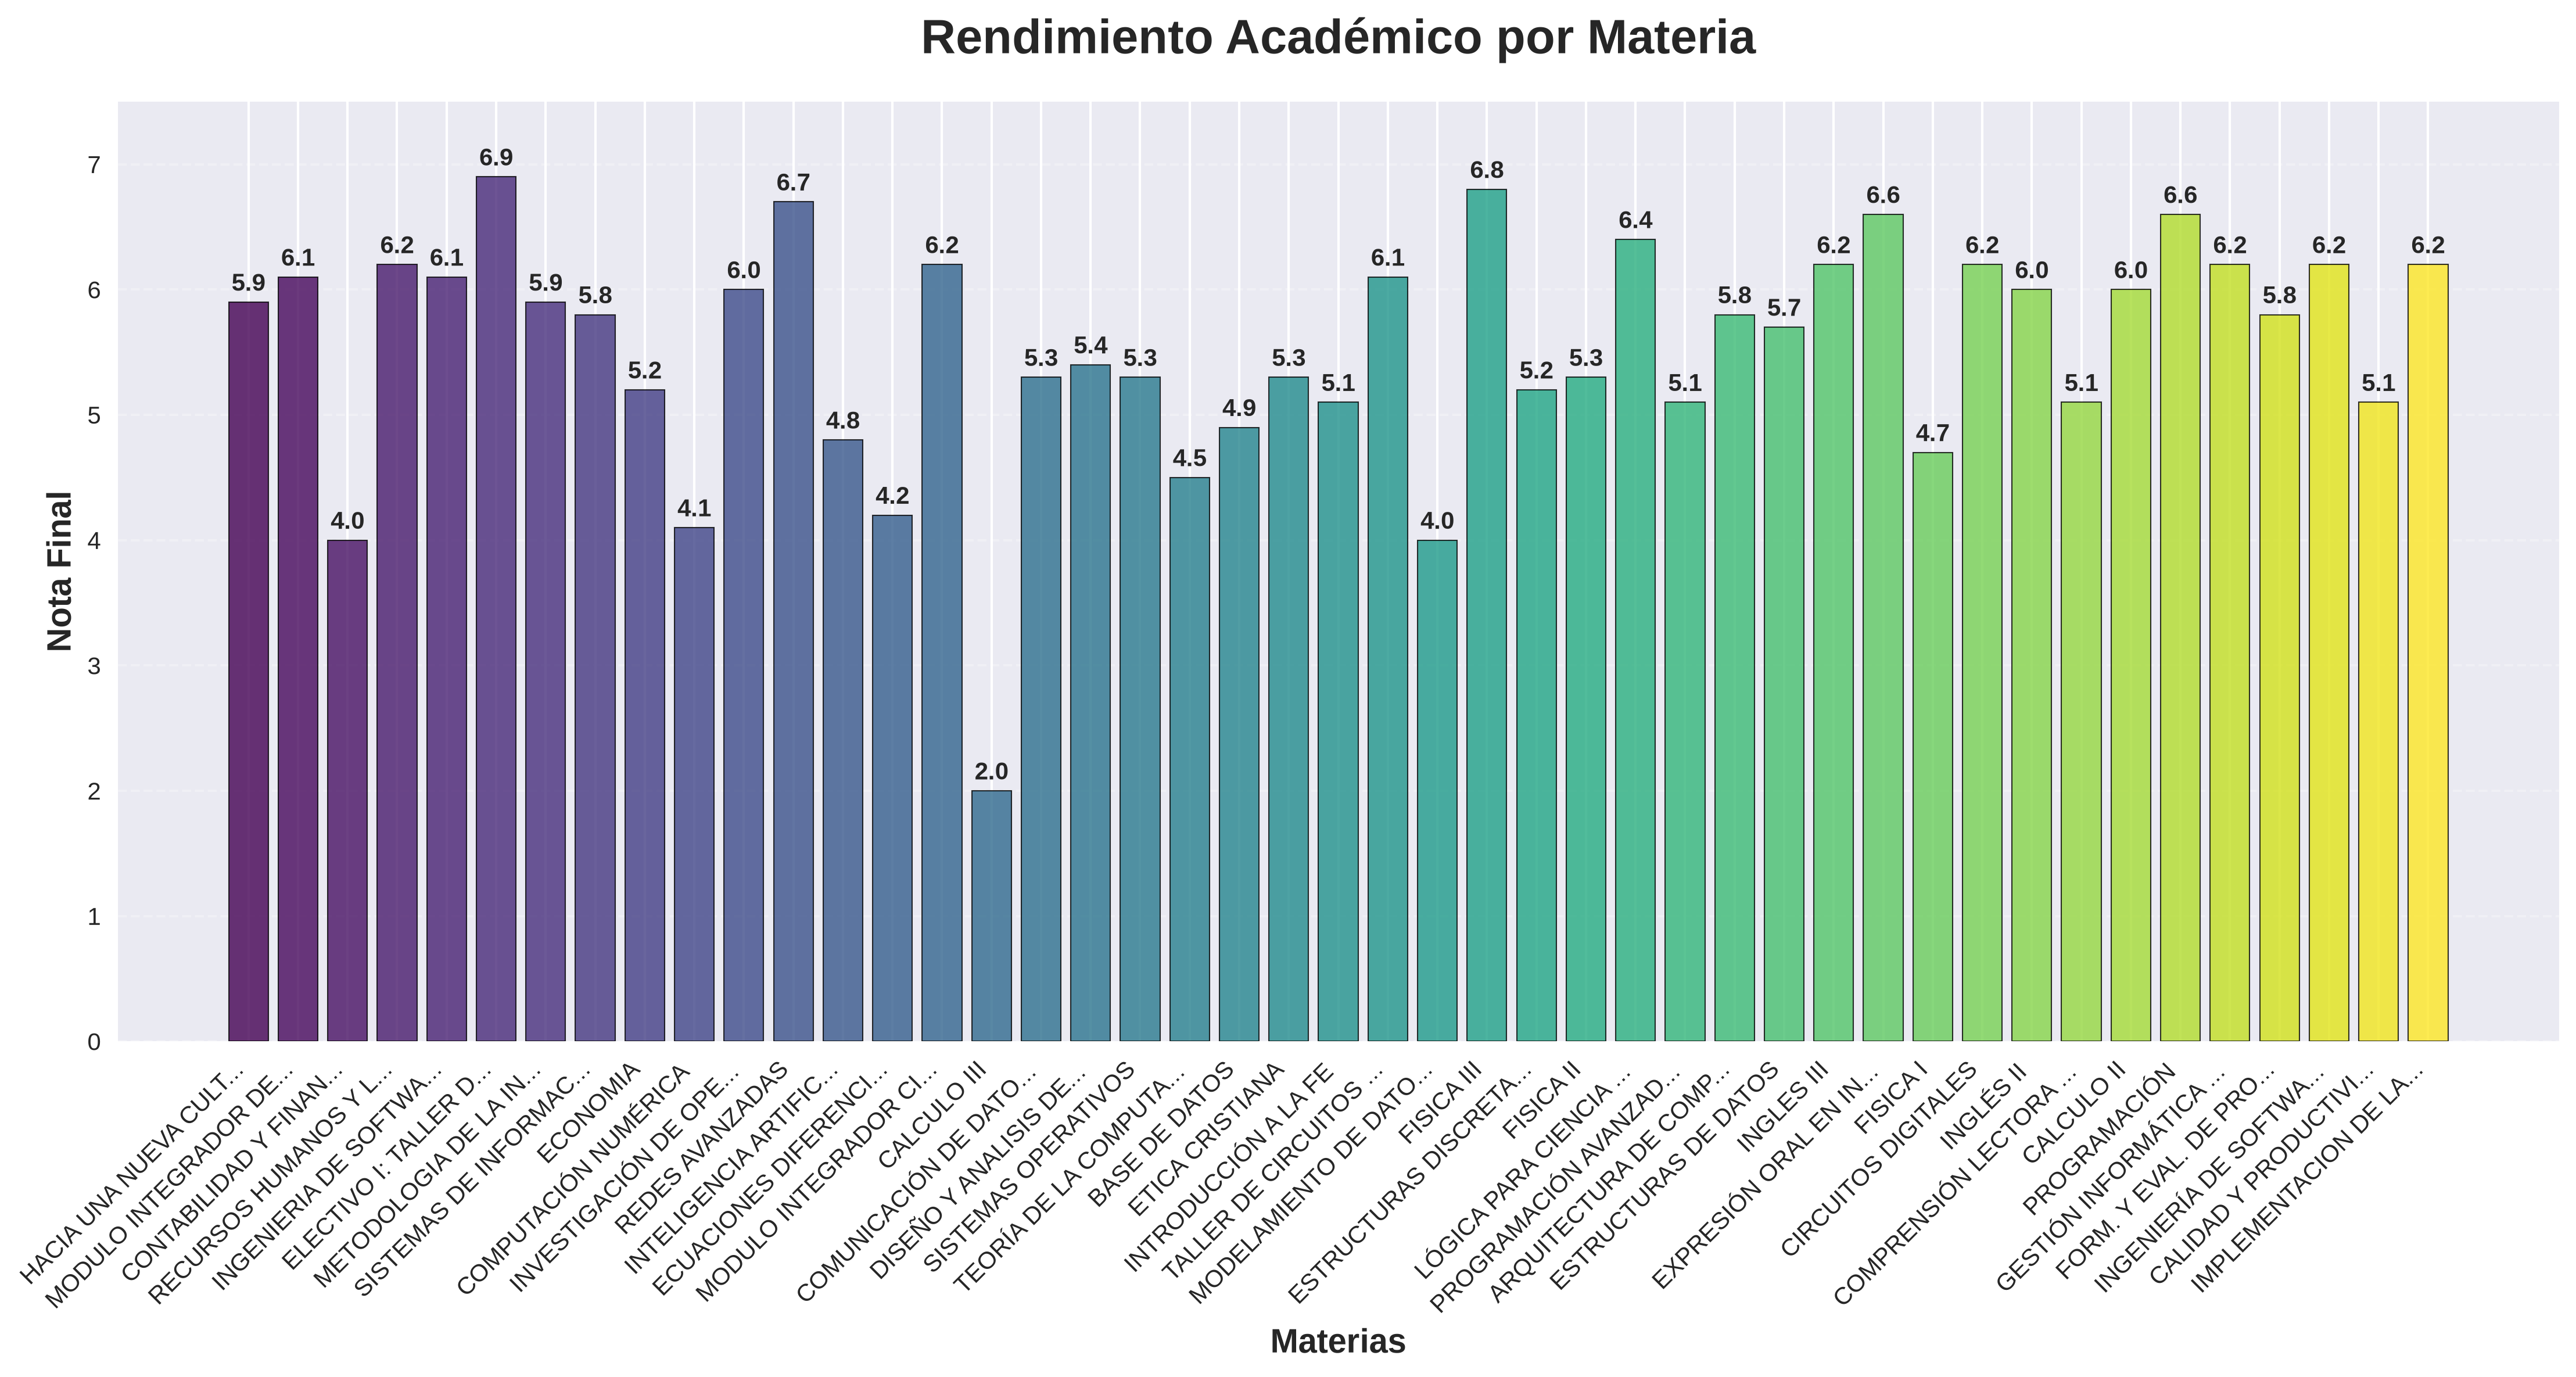
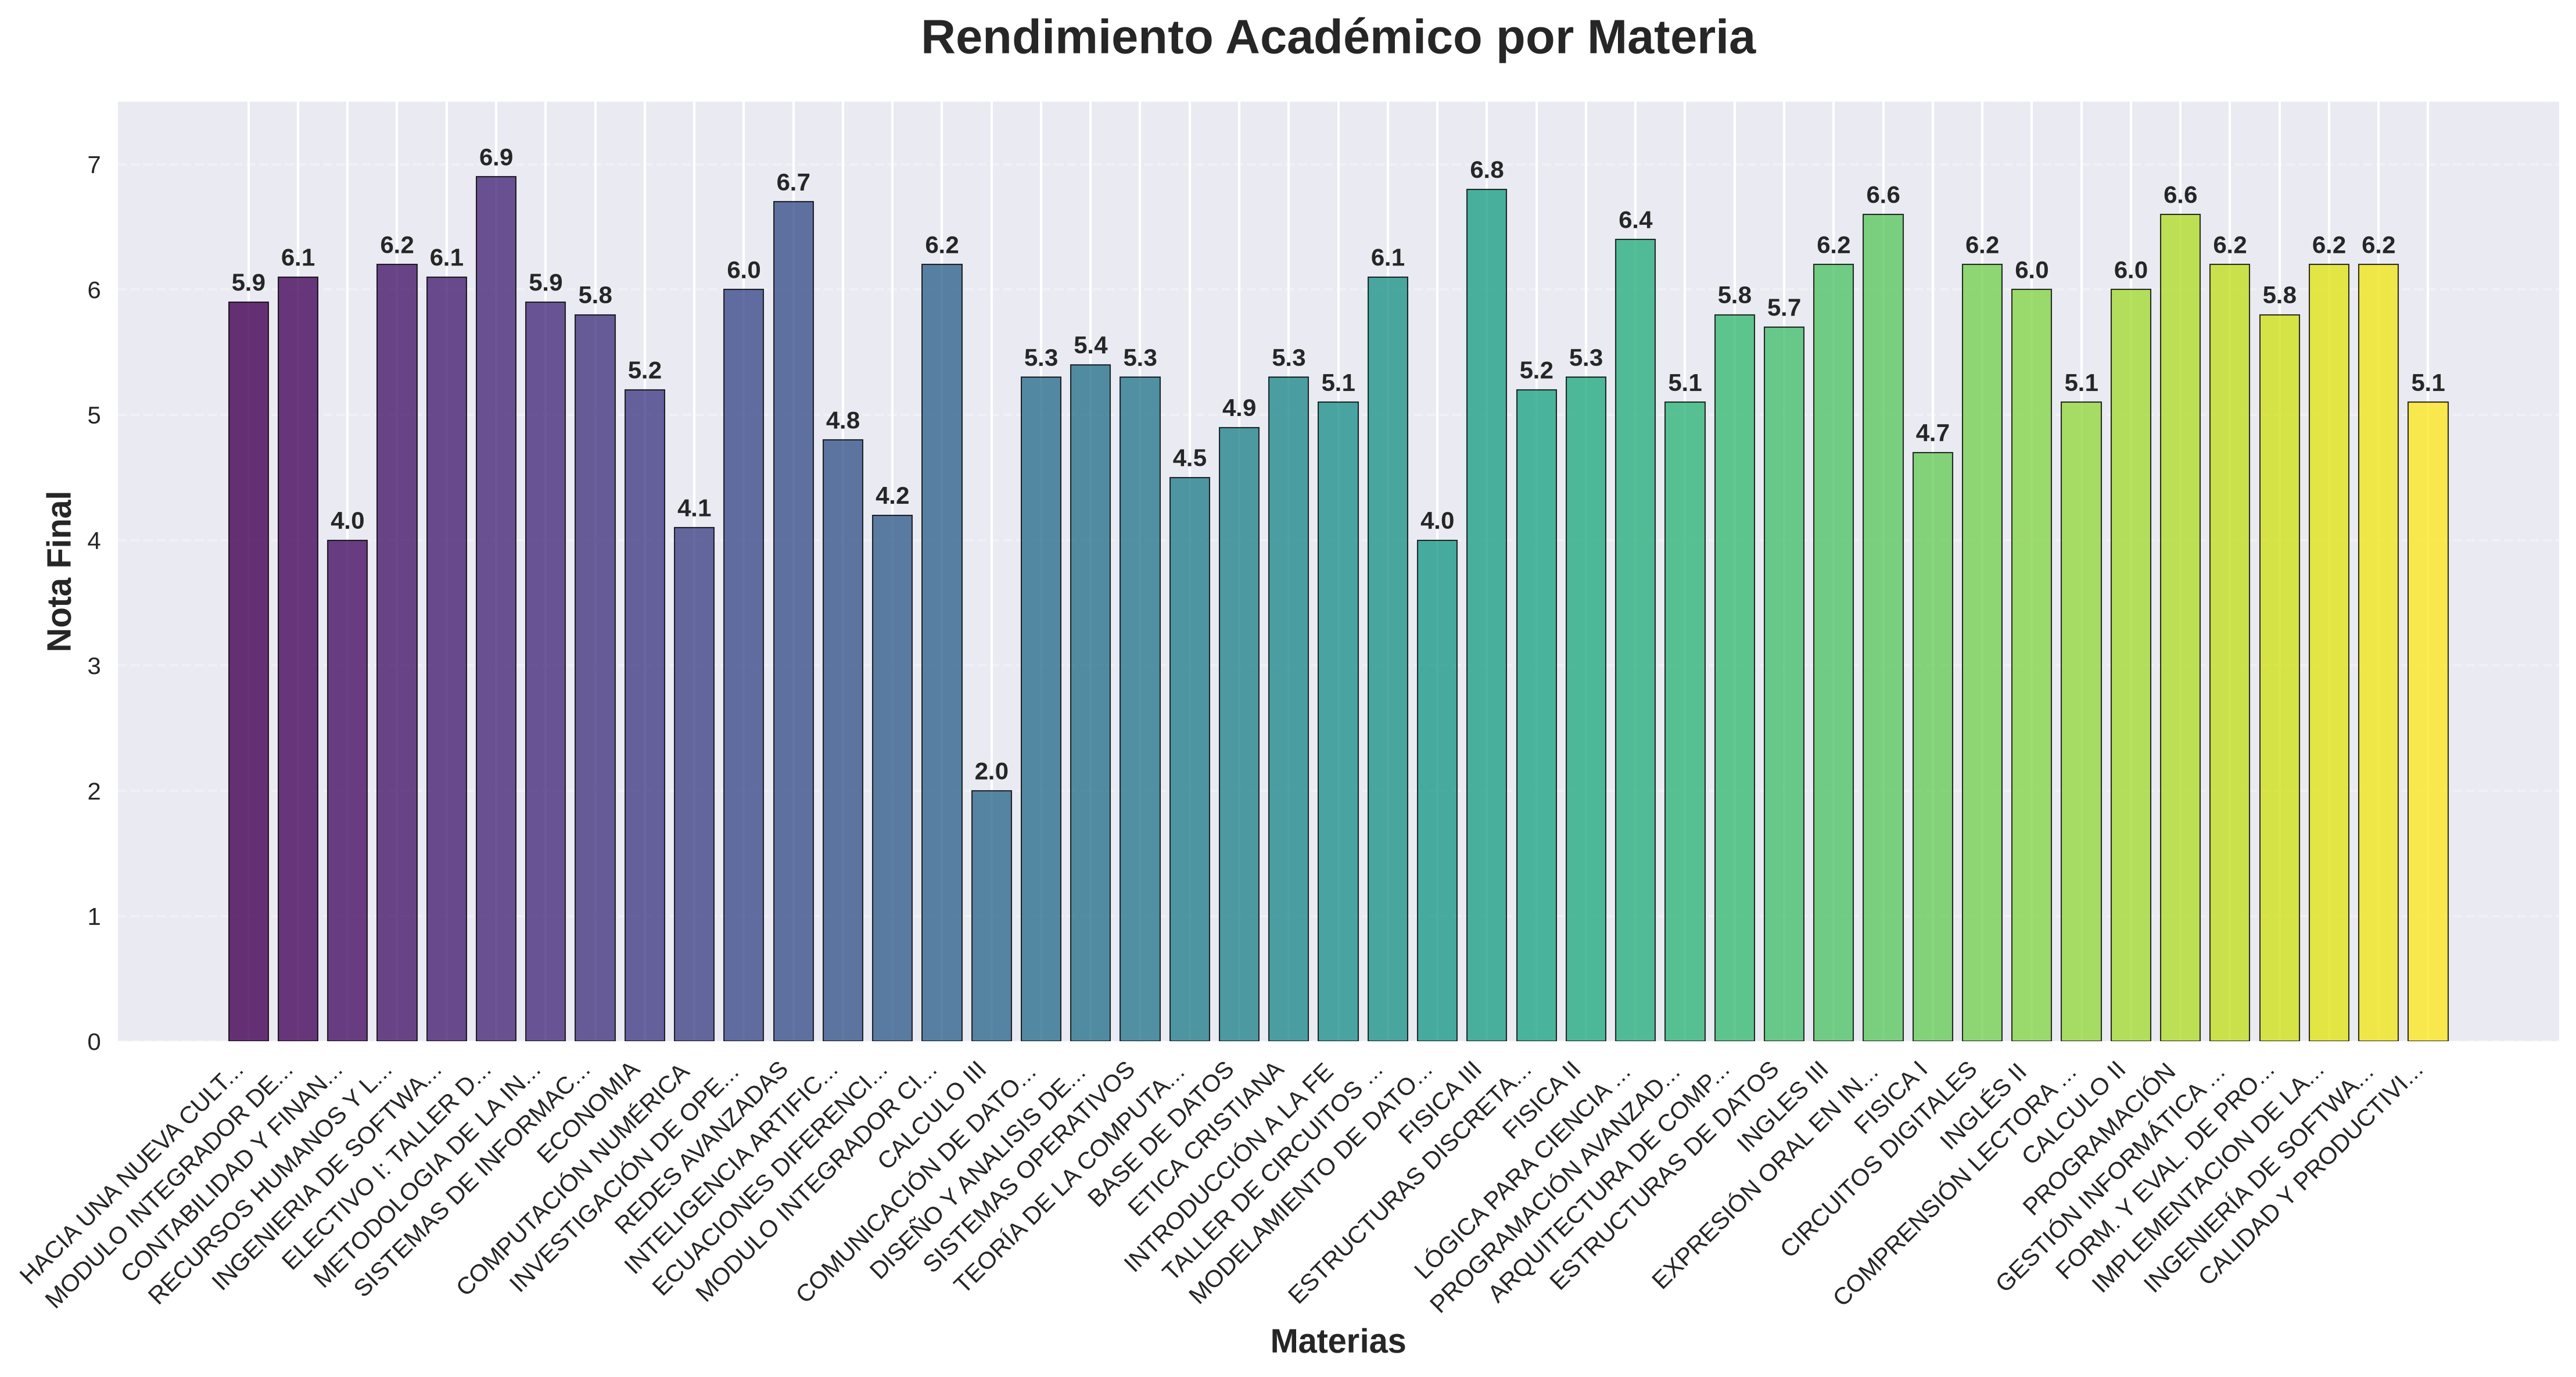
auto: actualizar notas y gráficos

Changed region(s): [[0.8092, 0.7806, 0.9337, 0.9367], [0.9026, 0.1873, 0.9648, 0.3122]]

diff --git a/dashboard/ramos_con_detalles.js b/dashboard/ramos_con_detalles.js
@@ -1,2 +1,2 @@
 /* Archivo generado automáticamente por el scraper. No editar a mano. */
-window.ramosData = {"ramos_con_detalles": [{"nombre": "HACIA UNA NUEVA CULTURA EMPRESARIAL", "nota_final": 5.9, "id_curso": "01005356", "componentes": [{"nombre": "Parcial", "porcentaje": "30%", "nota": 6.0}, {"nombre": "Parcial", "porcentaje": "30%", "nota": 7.0}, {"nombre": "Parcial", "porcentaje": "40%", "nota": 5.0}], "semestre": "Semestre 2 (Pre) 2025"}, {"nombre": "MODULO INTEGRADOR DE LICENCIATURA (PRACT", "nota_final": 6.1, "id_curso": "01003110", "componentes": [{"nombre": "Parcial", "porcentaje": "30%", "nota": 5.8}, {"nombre": "Parcial", "porcentaje": "30%", "nota": 6.4}, {"nombre": "Parcial", "porcentaje": "40%", "nota": 6.2}], "semestre": "Semestre 2 (Pre) 2025"}, {"nombre": "CONTABILIDAD Y FINANZAS", "nota_final": 4.0, "id_curso": "01003111", "componentes": [{"nombre": "Parcial", "porcentaje": "20%", "nota": 4.0}, {"nombre": "Parcial", "porcentaje": "20%", "nota": 5.9}, {"nombre": "Parcial", "porcentaje": "30%", "nota": 2.5}, {"nombre": "Parcial", "porcentaje": "30%", "nota": 4.1}], "semestre": "Semestre 2 (Pre) 2025"}, {"nombre": "RECURSOS HUMANOS Y LEGISLACIÓN", "nota_final": 6.2, "id_curso": "01003120", "componentes": [{"nombre": "Parcial", "porcentaje": "20%", "nota": 5.4}, {"nombre": "Parcial", "porcentaje": "25%", "nota": 6.5}, {"nombre": "Parcial", "porcentaje": "25%", "nota": 6.0}, {"nombre": "Parcial", "porcentaje": "30%", "nota": 6.6}], "semestre": "Semestre 2 (Pre) 2025"}, {"nombre": "INGENIERIA DE SOFTWARE I", "nota_final": 6.1, "id_curso": "01003113", "componentes": [{"nombre": "Parcial", "porcentaje": "10%", "nota": 6.3}, {"nombre": "Parcial", "porcentaje": "10%", "nota": 6.2}, {"nombre": "Parcial", "porcentaje": "20%", "nota": 7.0}, {"nombre": "Parcial", "porcentaje": "30%", "nota": 5.3}, {"nombre": "Parcial", "porcentaje": "30%", "nota": 6.2}], "semestre": "Semestre 2 (Pre) 2025"}, {"nombre": "ELECTIVO I: TALLER DE UI Y UX", "nota_final": 6.9, "id_curso": "01011131", "componentes": [{"nombre": "Parcial", "porcentaje": "20%", "nota": 7.0}, {"nombre": "Parcial", "porcentaje": "40%", "nota": 6.9}, {"nombre": "Parcial", "porcentaje": "40%", "nota": 6.8}], "semestre": "Semestre 2 (Pre) 2025"}, {"nombre": "METODOLOGIA DE LA INVESTIGACIÓN", "nota_final": 5.9, "id_curso": "01003105", "componentes": [{"nombre": "Parcial", "porcentaje": "30%", "nota": 5.5}, {"nombre": "Parcial", "porcentaje": "30%", "nota": 6.7}, {"nombre": "Parcial", "porcentaje": "40%", "nota": 5.5}], "semestre": "Semestre 1 (Pre) 2025"}, {"nombre": "SISTEMAS DE INFORMACIÓN", "nota_final": 5.8, "id_curso": "01003108", "componentes": [{"nombre": "Parcial", "porcentaje": "30%", "nota": 6.3}, {"nombre": "Parcial", "porcentaje": "30%", "nota": 7.0}, {"nombre": "Parcial", "porcentaje": "40%", "nota": 4.4}], "semestre": "Semestre 1 (Pre) 2025"}, {"nombre": "ECONOMIA", "nota_final": 5.2, "id_curso": "01003106", "componentes": [{"nombre": "Parcial", "porcentaje": "25%", "nota": 6.6}, {"nombre": "Parcial", "porcentaje": "25%", "nota": 6.0}, {"nombre": "Parcial", "porcentaje": "25%", "nota": 7.0}, {"nombre": "Parcial", "porcentaje": "25%", "nota": 1.0}], "semestre": "Semestre 1 (Pre) 2025"}, {"nombre": "CALCULO I", "nota_final": null, "id_curso": "N/A", "componentes": [], "semestre": "Semestre 1 (Pre) 2021", "error": "Message: \nStacktrace:\n#0 0x55fedd4083da <unknown>\n#1 0x55fedcdea139 <unknown>\n#2 0x55fedce3e884 <unknown>\n#3 0x55fedce3ead1 <unknown>\n#4 0x55fedce89974 <unknown>\n#5 0x55fedce86b5c <unknown>\n#6 0x55fedce31e4f <unknown>\n#7 0x55fedce32c31 <unknown>\n#8 0x55fedd3ce9f7 <unknown>\n#9 0x55fedd3cd203 <unknown>\n#10 0x55fedd3b7f16 <unknown>\n#11 0x55fedd3cdd9a <unknown>\n#12 0x55fedd39feb0 <unknown>\n#13 0x55fedd3f4d58 <unknown>\n#14 0x55fedd3f4ef5 <unknown>\n#15 0x55fedd406f5e <unknown>\n#16 0x7fd13129caa4 <unknown>\n#17 0x7fd131329c6c <unknown>\n"}, {"nombre": "COMPUTACIÓN NUMÉRICA", "nota_final": 4.1, "id_curso": "01003100", "componentes": [{"nombre": "Parcial", "porcentaje": "15%", "nota": 6.5}, {"nombre": "Parcial", "porcentaje": "15%", "nota": 7.0}, {"nombre": "Parcial", "porcentaje": "20%", "nota": 6.8}, {"nombre": "Parcial", "porcentaje": "20%", "nota": 2.0}, {"nombre": "Parcial", "porcentaje": "30%", "nota": 1.0}], "semestre": "Semestre 2 (Pre) 2024"}, {"nombre": "INVESTIGACIÓN DE OPERACIONES", "nota_final": 6.0, "id_curso": "01003101", "componentes": [{"nombre": "Parcial", "porcentaje": "15%", "nota": 7.0}, {"nombre": "Parcial", "porcentaje": "15%", "nota": 5.3}, {"nombre": "Parcial", "porcentaje": "20%", "nota": 5.8}, {"nombre": "Parcial", "porcentaje": "20%", "nota": 6.9}, {"nombre": "Parcial", "porcentaje": "30%", "nota": 5.5}], "semestre": "Semestre 2 (Pre) 2024"}, {"nombre": "REDES AVANZADAS", "nota_final": 6.7, "id_curso": "01003114", "componentes": [{"nombre": "Parcial", "porcentaje": "45%", "nota": 6.7}, {"nombre": "Parcial", "porcentaje": "55%", "nota": 6.7}], "semestre": "Semestre 2 (Pre) 2024"}, {"nombre": "INTELIGENCIA ARTIFICIAL", "nota_final": 4.8, "id_curso": "01003112", "componentes": [{"nombre": "Parcial", "porcentaje": "10%", "nota": 5.9}, {"nombre": "Parcial", "porcentaje": "10%", "nota": 7.0}, {"nombre": "Parcial", "porcentaje": "20%", "nota": 5.3}, {"nombre": "Parcial", "porcentaje": "30%", "nota": 4.0}, {"nombre": "Parcial", "porcentaje": "30%", "nota": 4.0}], "semestre": "Semestre 2 (Pre) 2024"}, {"nombre": "ECUACIONES DIFERENCIALES", "nota_final": 4.2, "id_curso": "01003090", "componentes": [{"nombre": "Parcial", "porcentaje": "15%", "nota": 4.0}, {"nombre": "Parcial", "porcentaje": "15%", "nota": 5.0}, {"nombre": "Parcial", "porcentaje": "20%", "nota": 3.7}, {"nombre": "Parcial", "porcentaje": "20%", "nota": 4.3}, {"nombre": "Parcial", "porcentaje": "30%", "nota": 4.2}], "semestre": "Semestre 2 (Pre) 2024"}, {"nombre": "MODULO INTEGRADOR CIENCIAS BÁSICAS", "nota_final": 6.2, "id_curso": "01003094", "componentes": [{"nombre": "Parcial", "porcentaje": "40%", "nota": 6.1}, {"nombre": "Parcial", "porcentaje": "60%", "nota": 6.2}], "semestre": "Semestre 2 (Pre) 2024"}, {"nombre": "CALCULO III", "nota_final": 2.0, "id_curso": "01003085", "componentes": [{"nombre": "Parcial", "porcentaje": "20%", "nota": 2.2}, {"nombre": "Parcial", "porcentaje": "25%", "nota": 2.4}, {"nombre": "Parcial", "porcentaje": "25%", "nota": 2.2}, {"nombre": "Parcial", "porcentaje": "30%", "nota": 1.3}], "semestre": "Semestre 1 (Pre) 2023"}, {"nombre": "COMUNICACIÓN DE DATOS Y REDES", "nota_final": 5.3, "id_curso": "01003109", "componentes": [{"nombre": "Parcial", "porcentaje": "15%", "nota": 5.3}, {"nombre": "Parcial", "porcentaje": "15%", "nota": 5.3}, {"nombre": "Parcial", "porcentaje": "20%", "nota": 5.3}, {"nombre": "Parcial", "porcentaje": "20%", "nota": 5.3}, {"nombre": "Parcial", "porcentaje": "30%", "nota": 5.3}], "semestre": "Semestre 1 (Pre) 2024"}, {"nombre": "DISEÑO Y ANALISIS DE ALGORITMOS", "nota_final": 5.4, "id_curso": "01003107", "componentes": [{"nombre": "Parcial", "porcentaje": "30%", "nota": 6.0}, {"nombre": "Parcial", "porcentaje": "70%", "nota": 5.2}], "semestre": "Semestre 1 (Pre) 2024"}, {"nombre": "SISTEMAS OPERATIVOS", "nota_final": 5.3, "id_curso": "01003104", "componentes": [{"nombre": "Parcial", "porcentaje": "25%", "nota": 5.5}, {"nombre": "Parcial", "porcentaje": "35%", "nota": 6.1}, {"nombre": "Parcial", "porcentaje": "40%", "nota": 4.4}], "semestre": "Semestre 2 (Pre) 2023"}, {"nombre": "TEORÍA DE LA COMPUTACION", "nota_final": 4.5, "id_curso": "01003102", "componentes": [{"nombre": "Parcial", "porcentaje": "25%", "nota": 5.9}, {"nombre": "Parcial", "porcentaje": "25%", "nota": 6.7}, {"nombre": "Parcial", "porcentaje": "25%", "nota": 4.2}, {"nombre": "Parcial", "porcentaje": "25%", "nota": 1.0}], "semestre": "Semestre 2 (Pre) 2023"}, {"nombre": "BASE DE DATOS", "nota_final": 4.9, "id_curso": "01003103", "componentes": [{"nombre": "Parcial", "porcentaje": "30%", "nota": 3.6}, {"nombre": "Parcial", "porcentaje": "30%", "nota": 5.7}, {"nombre": "Parcial", "porcentaje": "40%", "nota": 5.3}], "semestre": "Semestre 2 (Pre) 2023"}, {"nombre": "ETICA CRISTIANA", "nota_final": 5.3, "id_curso": "01005880", "componentes": [{"nombre": "Parcial", "porcentaje": "30%", "nota": 5.0}, {"nombre": "Parcial", "porcentaje": "30%", "nota": 6.5}, {"nombre": "Parcial", "porcentaje": "40%", "nota": 4.5}], "semestre": "Semestre 2 (Pre) 2023"}, {"nombre": "INTRODUCCIÓN A LA FE", "nota_final": 5.1, "id_curso": "01005831", "componentes": [{"nombre": "Parcial", "porcentaje": "20%", "nota": 6.8}, {"nombre": "Parcial", "porcentaje": "25%", "nota": 6.6}, {"nombre": "Parcial", "porcentaje": "25%", "nota": 1.0}, {"nombre": "Parcial", "porcentaje": "30%", "nota": 6.0}], "semestre": "Semestre 1 (Pre) 2023"}, {"nombre": "TALLER DE CIRCUITOS DIGITALES", "nota_final": 6.1, "id_curso": "01003099", "componentes": [{"nombre": "Parcial", "porcentaje": "20%", "nota": 6.0}, {"nombre": "Parcial", "porcentaje": "20%", "nota": 6.6}, {"nombre": "Parcial", "porcentaje": "20%", "nota": 6.0}, {"nombre": "Parcial", "porcentaje": "40%", "nota": 6.0}], "semestre": "Semestre 1 (Pre) 2023"}, {"nombre": "MODELAMIENTO DE DATOS", "nota_final": 4.0, "id_curso": "01003098", "componentes": [{"nombre": "Parcial", "porcentaje": "20%", "nota": 3.8}, {"nombre": "Parcial", "porcentaje": "40%", "nota": 5.5}, {"nombre": "Parcial", "porcentaje": "40%", "nota": 2.7}], "semestre": "Semestre 1 (Pre) 2023"}, {"nombre": "FISICA III", "nota_final": 6.8, "id_curso": "01003095", "componentes": [{"nombre": "Parcial", "porcentaje": "20%", "nota": 6.5}, {"nombre": "Parcial", "porcentaje": "20%", "nota": 7.0}, {"nombre": "Parcial", "porcentaje": "30%", "nota": 6.8}, {"nombre": "Parcial", "porcentaje": "30%", "nota": 6.8}], "semestre": "Semestre 1 (Pre) 2023"}, {"nombre": "ESTRUCTURAS DISCRETAS", "nota_final": 5.2, "id_curso": "01003097", "componentes": [{"nombre": "Parcial", "porcentaje": "15%", "nota": 4.8}, {"nombre": "Parcial", "porcentaje": "15%", "nota": 4.8}, {"nombre": "Parcial", "porcentaje": "20%", "nota": 4.8}, {"nombre": "Parcial", "porcentaje": "20%", "nota": 5.8}, {"nombre": "Parcial", "porcentaje": "30%", "nota": 5.4}], "semestre": "Semestre 1 (Pre) 2023"}, {"nombre": "FISICA II", "nota_final": 5.3, "id_curso": "01003089", "componentes": [{"nombre": "Parcial", "porcentaje": "30%", "nota": 5.3}, {"nombre": "Parcial", "porcentaje": "35%", "nota": 4.1}, {"nombre": "Parcial", "porcentaje": "35%", "nota": 6.4}], "semestre": "Semestre 2 (Pre) 2022"}, {"nombre": "LÓGICA PARA CIENCIA DE LA COMPUTACIÓN", "nota_final": 6.4, "id_curso": "01003092", "componentes": [{"nombre": "Parcial", "porcentaje": "30%", "nota": 5.6}, {"nombre": "Parcial", "porcentaje": "35%", "nota": 7.0}, {"nombre": "Parcial", "porcentaje": "35%", "nota": 6.6}], "semestre": "Semestre 2 (Pre) 2022"}, {"nombre": "PROGRAMACIÓN AVANZADA", "nota_final": 5.1, "id_curso": "01003091", "componentes": [{"nombre": "Parcial", "porcentaje": "20%", "nota": 4.0}, {"nombre": "Parcial", "porcentaje": "20%", "nota": 7.0}, {"nombre": "Parcial", "porcentaje": "30%", "nota": 4.6}, {"nombre": "Parcial", "porcentaje": "30%", "nota": 5.1}], "semestre": "Semestre 2 (Pre) 2022"}, {"nombre": "ARQUITECTURA DE COMPUTADORES", "nota_final": 5.8, "id_curso": "01003093", "componentes": [{"nombre": "Parcial", "porcentaje": "15%", "nota": 2.9}, {"nombre": "Parcial", "porcentaje": "20%", "nota": 7.0}, {"nombre": "Parcial", "porcentaje": "20%", "nota": 7.0}, {"nombre": "Parcial", "porcentaje": "20%", "nota": 5.9}, {"nombre": "Parcial", "porcentaje": "25%", "nota": 5.7}], "semestre": "Semestre 2 (Pre) 2022"}, {"nombre": "ALGEBRA II", "nota_final": null, "id_curso": "01003080", "componentes": [{"nombre": "Parcial", "porcentaje": "15%", "nota": null}, {"nombre": "Parcial", "porcentaje": "15%", "nota": null}, {"nombre": "Parcial", "porcentaje": "20%", "nota": null}, {"nombre": "Parcial", "porcentaje": "20%", "nota": null}, {"nombre": "Parcial", "porcentaje": "30%", "nota": null}], "semestre": "Semestre 2 (Pre) 2021"}, {"nombre": "ESTRUCTURAS DE DATOS", "nota_final": 5.7, "id_curso": "01003086", "componentes": [{"nombre": "Parcial", "porcentaje": "20%", "nota": 3.8}, {"nombre": "Parcial", "porcentaje": "40%", "nota": 6.5}, {"nombre": "Parcial", "porcentaje": "40%", "nota": 5.8}], "semestre": "Semestre 1 (Pre) 2022"}, {"nombre": "INGLES III", "nota_final": 6.2, "id_curso": "01005809", "componentes": [{"nombre": "Parcial", "porcentaje": "50%", "nota": 6.7}, {"nombre": "Parcial", "porcentaje": "50%", "nota": 5.6}], "semestre": "Semestre 1 (Pre) 2022"}, {"nombre": "EXPRESIÓN ORAL EN INGENIERIA", "nota_final": 6.6, "id_curso": "01003087", "componentes": [{"nombre": "Parcial", "porcentaje": "25%", "nota": 7.0}, {"nombre": "Parcial", "porcentaje": "25%", "nota": 7.0}, {"nombre": "Parcial", "porcentaje": "25%", "nota": 5.5}, {"nombre": "Parcial", "porcentaje": "25%", "nota": 6.8}], "semestre": "Semestre 1 (Pre) 2022"}, {"nombre": "FISICA I", "nota_final": 4.7, "id_curso": "01003084", "componentes": [{"nombre": "Parcial", "porcentaje": "15%", "nota": 6.2}, {"nombre": "Parcial", "porcentaje": "15%", "nota": 6.3}, {"nombre": "Parcial", "porcentaje": "20%", "nota": 1.3}, {"nombre": "Parcial", "porcentaje": "20%", "nota": 6.0}, {"nombre": "Parcial", "porcentaje": "30%", "nota": 4.6}], "semestre": "Semestre 1 (Pre) 2022"}, {"nombre": "CIRCUITOS DIGITALES", "nota_final": 6.2, "id_curso": "01003088", "componentes": [{"nombre": "Parcial", "porcentaje": "25%", "nota": 5.3}, {"nombre": "Parcial", "porcentaje": "25%", "nota": 7.0}, {"nombre": "Parcial", "porcentaje": "25%", "nota": 6.3}, {"nombre": "Parcial", "porcentaje": "25%", "nota": 6.2}], "semestre": "Semestre 1 (Pre) 2022"}, {"nombre": "INGLÉS II", "nota_final": 6.0, "id_curso": "01005759", "componentes": [{"nombre": "Parcial", "porcentaje": "50%", "nota": 6.0}, {"nombre": "Parcial", "porcentaje": "50%", "nota": 6.0}], "semestre": "Semestre 2 (Pre) 2021"}, {"nombre": "COMPRENSIÓN LECTORA Y PROD. DE TEXTOS", "nota_final": 5.1, "id_curso": "01003083", "componentes": [{"nombre": "Parcial", "porcentaje": "25%", "nota": 5.3}, {"nombre": "Parcial", "porcentaje": "25%", "nota": 5.5}, {"nombre": "Parcial", "porcentaje": "25%", "nota": 3.0}, {"nombre": "Parcial", "porcentaje": "25%", "nota": 6.5}], "semestre": "Semestre 2 (Pre) 2021"}, {"nombre": "CALCULO II", "nota_final": 6.0, "id_curso": "01003081", "componentes": [{"nombre": "Parcial", "porcentaje": "20%", "nota": 6.6}, {"nombre": "Parcial", "porcentaje": "20%", "nota": 5.5}, {"nombre": "Parcial", "porcentaje": "30%", "nota": 5.9}, {"nombre": "Parcial", "porcentaje": "30%", "nota": 6.0}], "semestre": "Semestre 2 (Pre) 2021"}, {"nombre": "PROGRAMACIÓN", "nota_final": 6.6, "id_curso": "01003082", "componentes": [{"nombre": "Parcial", "porcentaje": "20%", "nota": 7.0}, {"nombre": "Parcial", "porcentaje": "20%", "nota": 7.0}, {"nombre": "Parcial", "porcentaje": "20%", "nota": 5.8}, {"nombre": "Parcial", "porcentaje": "40%", "nota": 6.5}], "semestre": "Semestre 2 (Pre) 2021"}, {"nombre": "GESTIÓN INFORMÁTICA I", "nota_final": 6.2, "id_curso": "01003116", "componentes": [{"nombre": "Parcial", "porcentaje": "20%", "nota": 6.8}, {"nombre": "Parcial", "porcentaje": "20%", "nota": 5.2}, {"nombre": "Parcial", "porcentaje": "30%", "nota": 5.8}, {"nombre": "Parcial", "porcentaje": "30%", "nota": 7.0}], "semestre": "Semestre 1 (Pre) 2026"}, {"nombre": "FORM. Y EVAL. DE PROYECTOS INFORMÁTICOS", "nota_final": 5.8, "id_curso": "01003115", "componentes": [{"nombre": "Parcial", "porcentaje": "25%", "nota": 3.6}, {"nombre": "Parcial", "porcentaje": "35%", "nota": 6.7}, {"nombre": "Parcial", "porcentaje": "40%", "nota": 6.3}], "semestre": "Semestre 1 (Pre) 2026"}, {"nombre": "SISTEMAS DISTRIBUIDOS", "nota_final": null, "id_curso": "01003119", "componentes": [{"nombre": "Parcial", "porcentaje": "30%", "nota": 5.2}, {"nombre": "Parcial", "porcentaje": "30%", "nota": null}, {"nombre": "Parcial", "porcentaje": "40%", "nota": null}], "semestre": "Semestre 1 (Pre) 2026"}, {"nombre": "INGENIERÍA DE SOFTWARE II", "nota_final": 6.2, "id_curso": "01003118", "componentes": [{"nombre": "Parcial", "porcentaje": "20%", "nota": 6.5}, {"nombre": "Parcial", "porcentaje": "20%", "nota": 6.3}, {"nombre": "Parcial", "porcentaje": "30%", "nota": 6.0}, {"nombre": "Parcial", "porcentaje": "30%", "nota": 6.2}], "semestre": "Semestre 1 (Pre) 2026"}, {"nombre": "CALIDAD Y PRODUCTIVIDAD DE SOFTWARE", "nota_final": 5.1, "id_curso": "01003117", "componentes": [{"nombre": "Parcial", "porcentaje": "20%", "nota": 5.0}, {"nombre": "Parcial", "porcentaje": "25%", "nota": 3.3}, {"nombre": "Parcial", "porcentaje": "25%", "nota": 5.6}, {"nombre": "Parcial", "porcentaje": "30%", "nota": 6.1}], "semestre": "Semestre 1 (Pre) 2026"}, {"nombre": "IMPLEMENTACION DE LA R.S.E. Y NUEVOS DES", "nota_final": 6.2, "id_curso": "01005358", "componentes": [{"nombre": "Parcial", "porcentaje": "30%", "nota": 7.0}, {"nombre": "Parcial", "porcentaje": "30%", "nota": 5.2}, {"nombre": "Parcial", "porcentaje": "40%", "nota": 6.4}], "semestre": "Semestre 1 (Pre) 2026"}]};
+window.ramosData = {"ramos_con_detalles": [{"nombre": "HACIA UNA NUEVA CULTURA EMPRESARIAL", "nota_final": 5.9, "id_curso": "01005356", "componentes": [{"nombre": "Parcial", "porcentaje": "30%", "nota": 6.0}, {"nombre": "Parcial", "porcentaje": "30%", "nota": 7.0}, {"nombre": "Parcial", "porcentaje": "40%", "nota": 5.0}], "semestre": "Semestre 2 (Pre) 2025"}, {"nombre": "MODULO INTEGRADOR DE LICENCIATURA (PRACT", "nota_final": 6.1, "id_curso": "01003110", "componentes": [{"nombre": "Parcial", "porcentaje": "30%", "nota": 5.8}, {"nombre": "Parcial", "porcentaje": "30%", "nota": 6.4}, {"nombre": "Parcial", "porcentaje": "40%", "nota": 6.2}], "semestre": "Semestre 2 (Pre) 2025"}, {"nombre": "CONTABILIDAD Y FINANZAS", "nota_final": 4.0, "id_curso": "01003111", "componentes": [{"nombre": "Parcial", "porcentaje": "20%", "nota": 4.0}, {"nombre": "Parcial", "porcentaje": "20%", "nota": 5.9}, {"nombre": "Parcial", "porcentaje": "30%", "nota": 2.5}, {"nombre": "Parcial", "porcentaje": "30%", "nota": 4.1}], "semestre": "Semestre 2 (Pre) 2025"}, {"nombre": "RECURSOS HUMANOS Y LEGISLACIÓN", "nota_final": 6.2, "id_curso": "01003120", "componentes": [{"nombre": "Parcial", "porcentaje": "20%", "nota": 5.4}, {"nombre": "Parcial", "porcentaje": "25%", "nota": 6.5}, {"nombre": "Parcial", "porcentaje": "25%", "nota": 6.0}, {"nombre": "Parcial", "porcentaje": "30%", "nota": 6.6}], "semestre": "Semestre 2 (Pre) 2025"}, {"nombre": "INGENIERIA DE SOFTWARE I", "nota_final": 6.1, "id_curso": "01003113", "componentes": [{"nombre": "Parcial", "porcentaje": "10%", "nota": 6.3}, {"nombre": "Parcial", "porcentaje": "10%", "nota": 6.2}, {"nombre": "Parcial", "porcentaje": "20%", "nota": 7.0}, {"nombre": "Parcial", "porcentaje": "30%", "nota": 5.3}, {"nombre": "Parcial", "porcentaje": "30%", "nota": 6.2}], "semestre": "Semestre 2 (Pre) 2025"}, {"nombre": "ELECTIVO I: TALLER DE UI Y UX", "nota_final": 6.9, "id_curso": "01011131", "componentes": [{"nombre": "Parcial", "porcentaje": "20%", "nota": 7.0}, {"nombre": "Parcial", "porcentaje": "40%", "nota": 6.9}, {"nombre": "Parcial", "porcentaje": "40%", "nota": 6.8}], "semestre": "Semestre 2 (Pre) 2025"}, {"nombre": "METODOLOGIA DE LA INVESTIGACIÓN", "nota_final": 5.9, "id_curso": "01003105", "componentes": [{"nombre": "Parcial", "porcentaje": "30%", "nota": 5.5}, {"nombre": "Parcial", "porcentaje": "30%", "nota": 6.7}, {"nombre": "Parcial", "porcentaje": "40%", "nota": 5.5}], "semestre": "Semestre 1 (Pre) 2025"}, {"nombre": "SISTEMAS DE INFORMACIÓN", "nota_final": 5.8, "id_curso": "01003108", "componentes": [{"nombre": "Parcial", "porcentaje": "30%", "nota": 6.3}, {"nombre": "Parcial", "porcentaje": "30%", "nota": 7.0}, {"nombre": "Parcial", "porcentaje": "40%", "nota": 4.4}], "semestre": "Semestre 1 (Pre) 2025"}, {"nombre": "ECONOMIA", "nota_final": 5.2, "id_curso": "01003106", "componentes": [{"nombre": "Parcial", "porcentaje": "25%", "nota": 6.6}, {"nombre": "Parcial", "porcentaje": "25%", "nota": 6.0}, {"nombre": "Parcial", "porcentaje": "25%", "nota": 7.0}, {"nombre": "Parcial", "porcentaje": "25%", "nota": 1.0}], "semestre": "Semestre 1 (Pre) 2025"}, {"nombre": "CALCULO I", "nota_final": null, "id_curso": "N/A", "componentes": [], "semestre": "Semestre 1 (Pre) 2021", "error": "Message: \nStacktrace:\n#0 0x55fedd4083da <unknown>\n#1 0x55fedcdea139 <unknown>\n#2 0x55fedce3e884 <unknown>\n#3 0x55fedce3ead1 <unknown>\n#4 0x55fedce89974 <unknown>\n#5 0x55fedce86b5c <unknown>\n#6 0x55fedce31e4f <unknown>\n#7 0x55fedce32c31 <unknown>\n#8 0x55fedd3ce9f7 <unknown>\n#9 0x55fedd3cd203 <unknown>\n#10 0x55fedd3b7f16 <unknown>\n#11 0x55fedd3cdd9a <unknown>\n#12 0x55fedd39feb0 <unknown>\n#13 0x55fedd3f4d58 <unknown>\n#14 0x55fedd3f4ef5 <unknown>\n#15 0x55fedd406f5e <unknown>\n#16 0x7fd13129caa4 <unknown>\n#17 0x7fd131329c6c <unknown>\n"}, {"nombre": "COMPUTACIÓN NUMÉRICA", "nota_final": 4.1, "id_curso": "01003100", "componentes": [{"nombre": "Parcial", "porcentaje": "15%", "nota": 6.5}, {"nombre": "Parcial", "porcentaje": "15%", "nota": 7.0}, {"nombre": "Parcial", "porcentaje": "20%", "nota": 6.8}, {"nombre": "Parcial", "porcentaje": "20%", "nota": 2.0}, {"nombre": "Parcial", "porcentaje": "30%", "nota": 1.0}], "semestre": "Semestre 2 (Pre) 2024"}, {"nombre": "INVESTIGACIÓN DE OPERACIONES", "nota_final": 6.0, "id_curso": "01003101", "componentes": [{"nombre": "Parcial", "porcentaje": "15%", "nota": 7.0}, {"nombre": "Parcial", "porcentaje": "15%", "nota": 5.3}, {"nombre": "Parcial", "porcentaje": "20%", "nota": 5.8}, {"nombre": "Parcial", "porcentaje": "20%", "nota": 6.9}, {"nombre": "Parcial", "porcentaje": "30%", "nota": 5.5}], "semestre": "Semestre 2 (Pre) 2024"}, {"nombre": "REDES AVANZADAS", "nota_final": 6.7, "id_curso": "01003114", "componentes": [{"nombre": "Parcial", "porcentaje": "45%", "nota": 6.7}, {"nombre": "Parcial", "porcentaje": "55%", "nota": 6.7}], "semestre": "Semestre 2 (Pre) 2024"}, {"nombre": "INTELIGENCIA ARTIFICIAL", "nota_final": 4.8, "id_curso": "01003112", "componentes": [{"nombre": "Parcial", "porcentaje": "10%", "nota": 5.9}, {"nombre": "Parcial", "porcentaje": "10%", "nota": 7.0}, {"nombre": "Parcial", "porcentaje": "20%", "nota": 5.3}, {"nombre": "Parcial", "porcentaje": "30%", "nota": 4.0}, {"nombre": "Parcial", "porcentaje": "30%", "nota": 4.0}], "semestre": "Semestre 2 (Pre) 2024"}, {"nombre": "ECUACIONES DIFERENCIALES", "nota_final": 4.2, "id_curso": "01003090", "componentes": [{"nombre": "Parcial", "porcentaje": "15%", "nota": 4.0}, {"nombre": "Parcial", "porcentaje": "15%", "nota": 5.0}, {"nombre": "Parcial", "porcentaje": "20%", "nota": 3.7}, {"nombre": "Parcial", "porcentaje": "20%", "nota": 4.3}, {"nombre": "Parcial", "porcentaje": "30%", "nota": 4.2}], "semestre": "Semestre 2 (Pre) 2024"}, {"nombre": "MODULO INTEGRADOR CIENCIAS BÁSICAS", "nota_final": 6.2, "id_curso": "01003094", "componentes": [{"nombre": "Parcial", "porcentaje": "40%", "nota": 6.1}, {"nombre": "Parcial", "porcentaje": "60%", "nota": 6.2}], "semestre": "Semestre 2 (Pre) 2024"}, {"nombre": "CALCULO III", "nota_final": 2.0, "id_curso": "01003085", "componentes": [{"nombre": "Parcial", "porcentaje": "20%", "nota": 2.2}, {"nombre": "Parcial", "porcentaje": "25%", "nota": 2.4}, {"nombre": "Parcial", "porcentaje": "25%", "nota": 2.2}, {"nombre": "Parcial", "porcentaje": "30%", "nota": 1.3}], "semestre": "Semestre 1 (Pre) 2023"}, {"nombre": "COMUNICACIÓN DE DATOS Y REDES", "nota_final": 5.3, "id_curso": "01003109", "componentes": [{"nombre": "Parcial", "porcentaje": "15%", "nota": 5.3}, {"nombre": "Parcial", "porcentaje": "15%", "nota": 5.3}, {"nombre": "Parcial", "porcentaje": "20%", "nota": 5.3}, {"nombre": "Parcial", "porcentaje": "20%", "nota": 5.3}, {"nombre": "Parcial", "porcentaje": "30%", "nota": 5.3}], "semestre": "Semestre 1 (Pre) 2024"}, {"nombre": "DISEÑO Y ANALISIS DE ALGORITMOS", "nota_final": 5.4, "id_curso": "01003107", "componentes": [{"nombre": "Parcial", "porcentaje": "30%", "nota": 6.0}, {"nombre": "Parcial", "porcentaje": "70%", "nota": 5.2}], "semestre": "Semestre 1 (Pre) 2024"}, {"nombre": "SISTEMAS OPERATIVOS", "nota_final": 5.3, "id_curso": "01003104", "componentes": [{"nombre": "Parcial", "porcentaje": "25%", "nota": 5.5}, {"nombre": "Parcial", "porcentaje": "35%", "nota": 6.1}, {"nombre": "Parcial", "porcentaje": "40%", "nota": 4.4}], "semestre": "Semestre 2 (Pre) 2023"}, {"nombre": "TEORÍA DE LA COMPUTACION", "nota_final": 4.5, "id_curso": "01003102", "componentes": [{"nombre": "Parcial", "porcentaje": "25%", "nota": 5.9}, {"nombre": "Parcial", "porcentaje": "25%", "nota": 6.7}, {"nombre": "Parcial", "porcentaje": "25%", "nota": 4.2}, {"nombre": "Parcial", "porcentaje": "25%", "nota": 1.0}], "semestre": "Semestre 2 (Pre) 2023"}, {"nombre": "BASE DE DATOS", "nota_final": 4.9, "id_curso": "01003103", "componentes": [{"nombre": "Parcial", "porcentaje": "30%", "nota": 3.6}, {"nombre": "Parcial", "porcentaje": "30%", "nota": 5.7}, {"nombre": "Parcial", "porcentaje": "40%", "nota": 5.3}], "semestre": "Semestre 2 (Pre) 2023"}, {"nombre": "ETICA CRISTIANA", "nota_final": 5.3, "id_curso": "01005880", "componentes": [{"nombre": "Parcial", "porcentaje": "30%", "nota": 5.0}, {"nombre": "Parcial", "porcentaje": "30%", "nota": 6.5}, {"nombre": "Parcial", "porcentaje": "40%", "nota": 4.5}], "semestre": "Semestre 2 (Pre) 2023"}, {"nombre": "INTRODUCCIÓN A LA FE", "nota_final": 5.1, "id_curso": "01005831", "componentes": [{"nombre": "Parcial", "porcentaje": "20%", "nota": 6.8}, {"nombre": "Parcial", "porcentaje": "25%", "nota": 6.6}, {"nombre": "Parcial", "porcentaje": "25%", "nota": 1.0}, {"nombre": "Parcial", "porcentaje": "30%", "nota": 6.0}], "semestre": "Semestre 1 (Pre) 2023"}, {"nombre": "TALLER DE CIRCUITOS DIGITALES", "nota_final": 6.1, "id_curso": "01003099", "componentes": [{"nombre": "Parcial", "porcentaje": "20%", "nota": 6.0}, {"nombre": "Parcial", "porcentaje": "20%", "nota": 6.6}, {"nombre": "Parcial", "porcentaje": "20%", "nota": 6.0}, {"nombre": "Parcial", "porcentaje": "40%", "nota": 6.0}], "semestre": "Semestre 1 (Pre) 2023"}, {"nombre": "MODELAMIENTO DE DATOS", "nota_final": 4.0, "id_curso": "01003098", "componentes": [{"nombre": "Parcial", "porcentaje": "20%", "nota": 3.8}, {"nombre": "Parcial", "porcentaje": "40%", "nota": 5.5}, {"nombre": "Parcial", "porcentaje": "40%", "nota": 2.7}], "semestre": "Semestre 1 (Pre) 2023"}, {"nombre": "FISICA III", "nota_final": 6.8, "id_curso": "01003095", "componentes": [{"nombre": "Parcial", "porcentaje": "20%", "nota": 6.5}, {"nombre": "Parcial", "porcentaje": "20%", "nota": 7.0}, {"nombre": "Parcial", "porcentaje": "30%", "nota": 6.8}, {"nombre": "Parcial", "porcentaje": "30%", "nota": 6.8}], "semestre": "Semestre 1 (Pre) 2023"}, {"nombre": "ESTRUCTURAS DISCRETAS", "nota_final": 5.2, "id_curso": "01003097", "componentes": [{"nombre": "Parcial", "porcentaje": "15%", "nota": 4.8}, {"nombre": "Parcial", "porcentaje": "15%", "nota": 4.8}, {"nombre": "Parcial", "porcentaje": "20%", "nota": 4.8}, {"nombre": "Parcial", "porcentaje": "20%", "nota": 5.8}, {"nombre": "Parcial", "porcentaje": "30%", "nota": 5.4}], "semestre": "Semestre 1 (Pre) 2023"}, {"nombre": "FISICA II", "nota_final": 5.3, "id_curso": "01003089", "componentes": [{"nombre": "Parcial", "porcentaje": "30%", "nota": 5.3}, {"nombre": "Parcial", "porcentaje": "35%", "nota": 4.1}, {"nombre": "Parcial", "porcentaje": "35%", "nota": 6.4}], "semestre": "Semestre 2 (Pre) 2022"}, {"nombre": "LÓGICA PARA CIENCIA DE LA COMPUTACIÓN", "nota_final": 6.4, "id_curso": "01003092", "componentes": [{"nombre": "Parcial", "porcentaje": "30%", "nota": 5.6}, {"nombre": "Parcial", "porcentaje": "35%", "nota": 7.0}, {"nombre": "Parcial", "porcentaje": "35%", "nota": 6.6}], "semestre": "Semestre 2 (Pre) 2022"}, {"nombre": "PROGRAMACIÓN AVANZADA", "nota_final": 5.1, "id_curso": "01003091", "componentes": [{"nombre": "Parcial", "porcentaje": "20%", "nota": 4.0}, {"nombre": "Parcial", "porcentaje": "20%", "nota": 7.0}, {"nombre": "Parcial", "porcentaje": "30%", "nota": 4.6}, {"nombre": "Parcial", "porcentaje": "30%", "nota": 5.1}], "semestre": "Semestre 2 (Pre) 2022"}, {"nombre": "ARQUITECTURA DE COMPUTADORES", "nota_final": 5.8, "id_curso": "01003093", "componentes": [{"nombre": "Parcial", "porcentaje": "15%", "nota": 2.9}, {"nombre": "Parcial", "porcentaje": "20%", "nota": 7.0}, {"nombre": "Parcial", "porcentaje": "20%", "nota": 7.0}, {"nombre": "Parcial", "porcentaje": "20%", "nota": 5.9}, {"nombre": "Parcial", "porcentaje": "25%", "nota": 5.7}], "semestre": "Semestre 2 (Pre) 2022"}, {"nombre": "ALGEBRA II", "nota_final": null, "id_curso": "01003080", "componentes": [{"nombre": "Parcial", "porcentaje": "15%", "nota": null}, {"nombre": "Parcial", "porcentaje": "15%", "nota": null}, {"nombre": "Parcial", "porcentaje": "20%", "nota": null}, {"nombre": "Parcial", "porcentaje": "20%", "nota": null}, {"nombre": "Parcial", "porcentaje": "30%", "nota": null}], "semestre": "Semestre 2 (Pre) 2021"}, {"nombre": "ESTRUCTURAS DE DATOS", "nota_final": 5.7, "id_curso": "01003086", "componentes": [{"nombre": "Parcial", "porcentaje": "20%", "nota": 3.8}, {"nombre": "Parcial", "porcentaje": "40%", "nota": 6.5}, {"nombre": "Parcial", "porcentaje": "40%", "nota": 5.8}], "semestre": "Semestre 1 (Pre) 2022"}, {"nombre": "INGLES III", "nota_final": 6.2, "id_curso": "01005809", "componentes": [{"nombre": "Parcial", "porcentaje": "50%", "nota": 6.7}, {"nombre": "Parcial", "porcentaje": "50%", "nota": 5.6}], "semestre": "Semestre 1 (Pre) 2022"}, {"nombre": "EXPRESIÓN ORAL EN INGENIERIA", "nota_final": 6.6, "id_curso": "01003087", "componentes": [{"nombre": "Parcial", "porcentaje": "25%", "nota": 7.0}, {"nombre": "Parcial", "porcentaje": "25%", "nota": 7.0}, {"nombre": "Parcial", "porcentaje": "25%", "nota": 5.5}, {"nombre": "Parcial", "porcentaje": "25%", "nota": 6.8}], "semestre": "Semestre 1 (Pre) 2022"}, {"nombre": "FISICA I", "nota_final": 4.7, "id_curso": "01003084", "componentes": [{"nombre": "Parcial", "porcentaje": "15%", "nota": 6.2}, {"nombre": "Parcial", "porcentaje": "15%", "nota": 6.3}, {"nombre": "Parcial", "porcentaje": "20%", "nota": 1.3}, {"nombre": "Parcial", "porcentaje": "20%", "nota": 6.0}, {"nombre": "Parcial", "porcentaje": "30%", "nota": 4.6}], "semestre": "Semestre 1 (Pre) 2022"}, {"nombre": "CIRCUITOS DIGITALES", "nota_final": 6.2, "id_curso": "01003088", "componentes": [{"nombre": "Parcial", "porcentaje": "25%", "nota": 5.3}, {"nombre": "Parcial", "porcentaje": "25%", "nota": 7.0}, {"nombre": "Parcial", "porcentaje": "25%", "nota": 6.3}, {"nombre": "Parcial", "porcentaje": "25%", "nota": 6.2}], "semestre": "Semestre 1 (Pre) 2022"}, {"nombre": "INGLÉS II", "nota_final": 6.0, "id_curso": "01005759", "componentes": [{"nombre": "Parcial", "porcentaje": "50%", "nota": 6.0}, {"nombre": "Parcial", "porcentaje": "50%", "nota": 6.0}], "semestre": "Semestre 2 (Pre) 2021"}, {"nombre": "COMPRENSIÓN LECTORA Y PROD. DE TEXTOS", "nota_final": 5.1, "id_curso": "01003083", "componentes": [{"nombre": "Parcial", "porcentaje": "25%", "nota": 5.3}, {"nombre": "Parcial", "porcentaje": "25%", "nota": 5.5}, {"nombre": "Parcial", "porcentaje": "25%", "nota": 3.0}, {"nombre": "Parcial", "porcentaje": "25%", "nota": 6.5}], "semestre": "Semestre 2 (Pre) 2021"}, {"nombre": "CALCULO II", "nota_final": 6.0, "id_curso": "01003081", "componentes": [{"nombre": "Parcial", "porcentaje": "20%", "nota": 6.6}, {"nombre": "Parcial", "porcentaje": "20%", "nota": 5.5}, {"nombre": "Parcial", "porcentaje": "30%", "nota": 5.9}, {"nombre": "Parcial", "porcentaje": "30%", "nota": 6.0}], "semestre": "Semestre 2 (Pre) 2021"}, {"nombre": "PROGRAMACIÓN", "nota_final": 6.6, "id_curso": "01003082", "componentes": [{"nombre": "Parcial", "porcentaje": "20%", "nota": 7.0}, {"nombre": "Parcial", "porcentaje": "20%", "nota": 7.0}, {"nombre": "Parcial", "porcentaje": "20%", "nota": 5.8}, {"nombre": "Parcial", "porcentaje": "40%", "nota": 6.5}], "semestre": "Semestre 2 (Pre) 2021"}, {"nombre": "GESTIÓN INFORMÁTICA I", "nota_final": 6.2, "id_curso": "01003116", "componentes": [{"nombre": "Parcial", "porcentaje": "20%", "nota": 6.8}, {"nombre": "Parcial", "porcentaje": "20%", "nota": 5.2}, {"nombre": "Parcial", "porcentaje": "30%", "nota": 5.8}, {"nombre": "Parcial", "porcentaje": "30%", "nota": 7.0}], "semestre": "Semestre 1 (Pre) 2026"}, {"nombre": "FORM. Y EVAL. DE PROYECTOS INFORMÁTICOS", "nota_final": 5.8, "id_curso": "01003115", "componentes": [{"nombre": "Parcial", "porcentaje": "25%", "nota": 3.6}, {"nombre": "Parcial", "porcentaje": "35%", "nota": 6.7}, {"nombre": "Parcial", "porcentaje": "40%", "nota": 6.3}], "semestre": "Semestre 1 (Pre) 2026"}, {"nombre": "IMPLEMENTACION DE LA R.S.E. Y NUEVOS DES", "nota_final": 6.2, "id_curso": "01005358", "componentes": [{"nombre": "Parcial", "porcentaje": "30%", "nota": 7.0}, {"nombre": "Parcial", "porcentaje": "30%", "nota": 5.2}, {"nombre": "Parcial", "porcentaje": "40%", "nota": 6.4}], "semestre": "Semestre 1 (Pre) 2026"}, {"nombre": "SISTEMAS DISTRIBUIDOS", "nota_final": null, "id_curso": "01003119", "componentes": [{"nombre": "Parcial", "porcentaje": "30%", "nota": 5.2}, {"nombre": "Parcial", "porcentaje": "30%", "nota": null}, {"nombre": "Parcial", "porcentaje": "40%", "nota": null}], "semestre": "Semestre 1 (Pre) 2026"}, {"nombre": "INGENIERÍA DE SOFTWARE II", "nota_final": 6.2, "id_curso": "01003118", "componentes": [{"nombre": "Parcial", "porcentaje": "20%", "nota": 6.5}, {"nombre": "Parcial", "porcentaje": "20%", "nota": 6.3}, {"nombre": "Parcial", "porcentaje": "30%", "nota": 6.0}, {"nombre": "Parcial", "porcentaje": "30%", "nota": 6.2}], "semestre": "Semestre 1 (Pre) 2026"}, {"nombre": "CALIDAD Y PRODUCTIVIDAD DE SOFTWARE", "nota_final": 5.1, "id_curso": "01003117", "componentes": [{"nombre": "Parcial", "porcentaje": "20%", "nota": 5.0}, {"nombre": "Parcial", "porcentaje": "25%", "nota": 3.3}, {"nombre": "Parcial", "porcentaje": "25%", "nota": 5.6}, {"nombre": "Parcial", "porcentaje": "30%", "nota": 6.1}], "semestre": "Semestre 1 (Pre) 2026"}]};